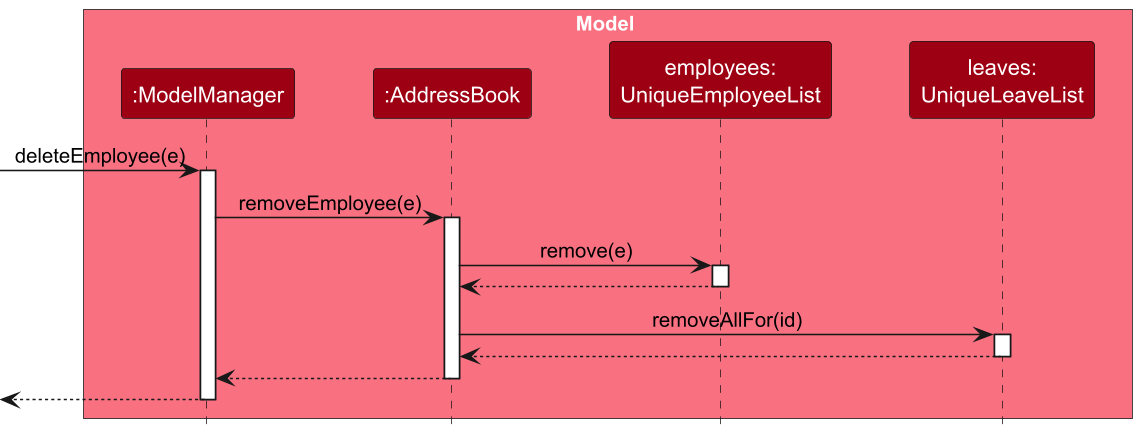
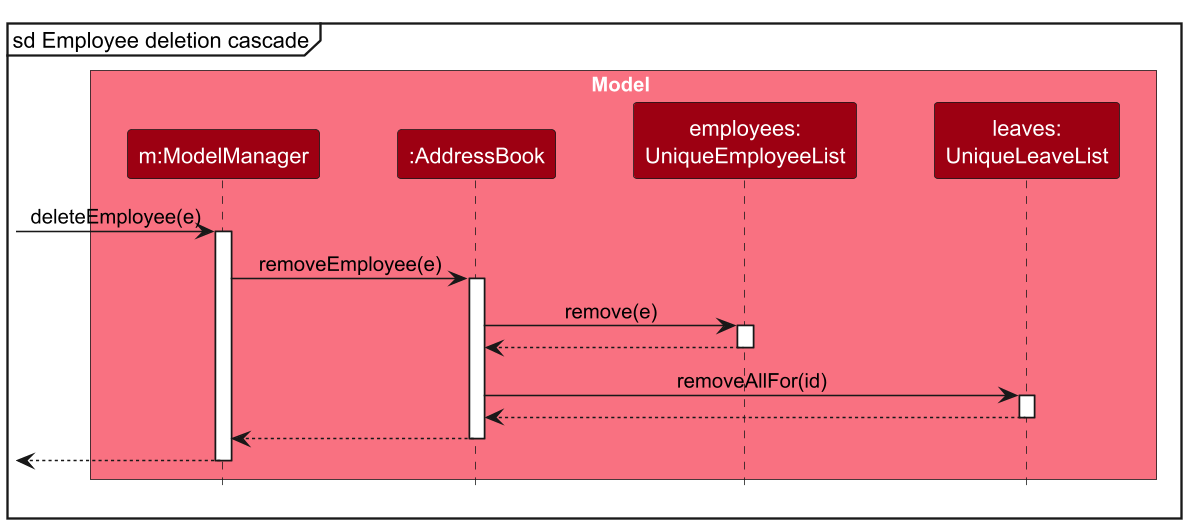
docs: address model and sequence diagram review feedback

diff --git a/docs/DeveloperGuide.md b/docs/DeveloperGuide.md
@@ -92,9 +92,9 @@ Here's a (partial) class diagram of the `Logic` component:
 <img src="images/LogicClassDiagram.png" width="550"/>
 
 The sequence diagram below shows a successful `execute("delete 1")` call, including command parsing,
-snapshot capture, and execution. It treats `Model` as a black box; employee and leave removal inside Model is shown
-separately in the [employee deletion cascade](#employee-deletion-cascade) diagram. Here, `e` is the first employee
-in the displayed list. Repeated command text is abbreviated with `...`, and unlabelled arrows into newly introduced
+snapshot capture, and execution. The `Employee deletion cascade` reference frame expands the work inside
+`Model#deleteEmployee` in the [employee deletion cascade](#employee-deletion-cascade) diagram. Here, `e` is the first
+employee in the displayed list. Repeated command text is abbreviated with `...`, and unlabelled arrows into newly introduced
 participant boxes are constructor calls. Formatting helpers, parser disposal, and the storage save between the
 command result and the final return are omitted; see [save failures and model rollback](#save-failures-and-model-rollback).
 
@@ -160,28 +160,32 @@ The `Model` component,
 
 **Employee details**
 
-This partial class diagram shows the values referenced by an `Employee`. Each employee has one name, phone number,
+The detail diagrams below use composition to express ownership within employee and leave records.
+
+This partial class diagram shows the details owned by an `Employee`. Each employee has one name, phone number,
 email address, postal address, salary, and annual leave entitlement, together with zero or more tags and tasks.
 The employee's internal identifier is omitted here and shown in the leave identity diagram below.
-Ordinary associations show these references without asserting exclusive ownership of the value objects.
-For example, `withSalary` creates a replacement employee while reusing the existing name, contact details, tags,
-and tasks; a snapshot may still retain the previous employee value. The composition diamonds in the overview instead
-show the employee and leave collection objects created and owned by each `AddressBook`.
 
-<img src="images/EmployeeClassDiagram.png" alt="Employee details showing required values and optional collections of tags and tasks" width="300" style="max-width: 100%; height: auto;" />
+<img src="images/EmployeeClassDiagram.png" alt="Employee composing its required details and optional tags and tasks" width="300" style="max-width: 100%; height: auto;" />
 
 **Leave identity and records**
 
 This partial class diagram shows how leave records identify their employee without holding an `Employee` reference.
+An employee owns its assigned `EmployeeId`, and a leave record owns its `LeaveId`.
+The ordinary association from `Leave` to `EmployeeId` links the leave to its employee.
+`Leave` also has an ordinary association to `LeavePeriod` because separate leave records can share the same immutable
+period object.
 
-<img src="images/LeaveClassDiagram.png" alt="Employee and leave records referencing EmployeeId, with a leave ID and period for each record" width="640" style="max-width: 100%; height: auto;" />
+<img src="images/LeaveClassDiagram.png" alt="Employee composing its EmployeeId, and Leave composing its LeaveId while referencing the employee identity and an immutable LeavePeriod" width="640" style="max-width: 100%; height: auto;" />
 
-* `Employee` has `0..1` `EmployeeId` because `Employee.createUnassigned` creates a value before its ID is allocated.
+* `Employee` has `0..1` `EmployeeId` because `Employee.createUnassigned` creates an instance before its ID is allocated.
   Every employee stored in `AddressBook` has exactly one internal ID; the optional multiplicity describes all
-  `Employee` values, including those not yet added to the book.
-* Each `Leave` has exactly one `EmployeeId`, one `LeaveId`, and one `LeavePeriod`. Its employee ID value must match
-  that of an employee in the same address book. Matching uses `EmployeeId.equals`, not object identity, names, or
-  displayed indexes. Multiple leave records may refer to the same employee.
+  `Employee` instances, including those not yet added to the book.
+* Each `Leave` has exactly one `EmployeeId`, one `LeaveId`, and one `LeavePeriod`. A leave belongs to the employee
+  whose assigned `EmployeeId` contains the same integer identifier as the leave's `EmployeeId`.
+  For example, two distinct `EmployeeId` objects containing `7` identify the same employee in that address book.
+  The comparison uses `EmployeeId.equals`, not Java object identity, names, or displayed indexes.
+  Multiple leave records may refer to the same employee.
 * Employee replacements preserve their internal ID when details, salary, or tasks change, so leave records continue
   to identify the same employee. Loading a save file rejects leave records whose employee ID has no matching employee.
 
@@ -189,8 +193,9 @@ This partial class diagram shows how leave records identify their employee witho
 
 The following sequence diagram shows the interactions inside Model after the delete command has selected a valid
 employee from the displayed list. Here, `e` is that employee and `id` is its assigned `EmployeeId`. Access to that ID
-is omitted from the diagram. The caller is the delete command shown in the [Logic component](#logic-component);
-snapshot capture and saving are outside this view.
+is omitted from the diagram. This expands the `Employee deletion cascade` reference frame in the
+[Logic component](#logic-component) diagram. Its `m:Model` participant is the `m:ModelManager` instance shown here.
+The caller is `DeleteCommand`; snapshot capture and saving are outside this view.
 
 <img src="images/DeleteEmployeeCascadeSequenceDiagram.png" alt="AddressBook removing the selected employee and all leave records with the matching employee ID" width="740" style="max-width: 100%; height: auto;" />
 
@@ -200,7 +205,7 @@ snapshot capture and saving are outside this view.
    other employees' leave is retained. Having no matching leave records is valid.
 
 `AddressBook` coordinates both removals; `Employee` does not invoke `Leave`. Object-destruction markers are omitted
-because removing records from collections does not imply immediate destruction of every referenced Java object.
+because removal from a collection does not necessarily make an object unreachable; the snapshot may still refer to it.
 The next successful save contains neither the employee nor their leave. A failed save instead restores both
 collections from the snapshot, as described under [save failures and model rollback](#save-failures-and-model-rollback).
 
@@ -551,21 +556,24 @@ The nested parser structure is described under [leave command routing](#leave-co
 4. The model creates the record with the next `LeaveId`, adds it to `UniqueLeaveList`, and increments the ID counter.
 5. The command reports the assigned leave ID, employee, period, charged weekdays, and recalculated balance.
 
-The following sequence diagram focuses on the overlap and entitlement checks inside Model, followed by record
-creation. It starts at `AddressBook#addLeave`, called through `ModelManager` after the command has resolved a valid
-displayed employee index. Parsing, UI feedback, saving, and getter calls are outside this view. Activation bars and
-helper return arrows are omitted to keep the alternative paths readable.
+The following sequence diagram shows successful leave creation inside Model. It starts at `AddressBook#addLeave`,
+called through `ModelManager` after the command has resolved a valid displayed employee index. The request has no
+overlap, fits within the remaining entitlement, and has an available leave ID. Parsing, UI feedback, saving, and
+getter calls are outside this view. The nested activation bar shows that `getWorkingDaysUsed` is called inside
+`calculateRemainingLeave`, before that helper returns the balance.
 
-<img src="images/AddLeaveSequenceDiagram.png" alt="AddressBook rejecting overlapping or excessive leave, or creating and storing a new leave record" width="740" style="max-width: 100%; height: auto;" />
+<img src="images/AddLeaveSequenceDiagram.png" alt="Successful leave creation with the working-day lookup nested inside the remaining-balance calculation" width="740" style="max-width: 100%; height: auto;" />
 
 Here, `id` is the selected employee's internal ID, `period` is the validated date range, and `e` is the employee found
-by that ID. `year` and `requested` come from the period; `remaining` is the result of `calculateRemainingLeave`.
-Exception-labelled replies represent propagation to the caller; `AddLeaveCommand` converts those exceptions into
-user-facing errors. Neither rejection changes the leave list or consumes a leave ID.
+by that ID. `year` comes from the period; `remaining` is the result of `calculateRemainingLeave`.
+An overlapping period or a request exceeding that balance instead terminates `addLeave` with
+`OverlappingLeaveException` or `InsufficientLeaveException`, respectively. `AddLeaveCommand` converts the exception
+into a user-facing error. Neither rejection changes the leave list or consumes a leave ID. These failure paths are
+omitted from the diagram.
 
-The success path assumes a leave ID is available. `leaveId` is constructed from the next-ID counter before the
-`Leave` constructor runs; after `add(record)` succeeds, the counter advances. These value-object and counter steps
-are omitted from the diagram. An exhausted counter instead raises `LeaveIdExhaustedException` before record creation,
+`leaveId` is constructed from `AddressBook.nextLeaveId` before the `Leave` constructor runs; after `add(record)`
+succeeds, `nextLeaveId` advances. These value-object and counter steps are omitted from the diagram.
+An exhausted counter instead raises `LeaveIdExhaustedException` before record creation,
 which the command also converts into an error. The command recalculates the balance after a successful return.
 
 `LeavePeriod` enforces an inclusive, ordered range within one calendar year. It counts Mondays to Fridays and requires
